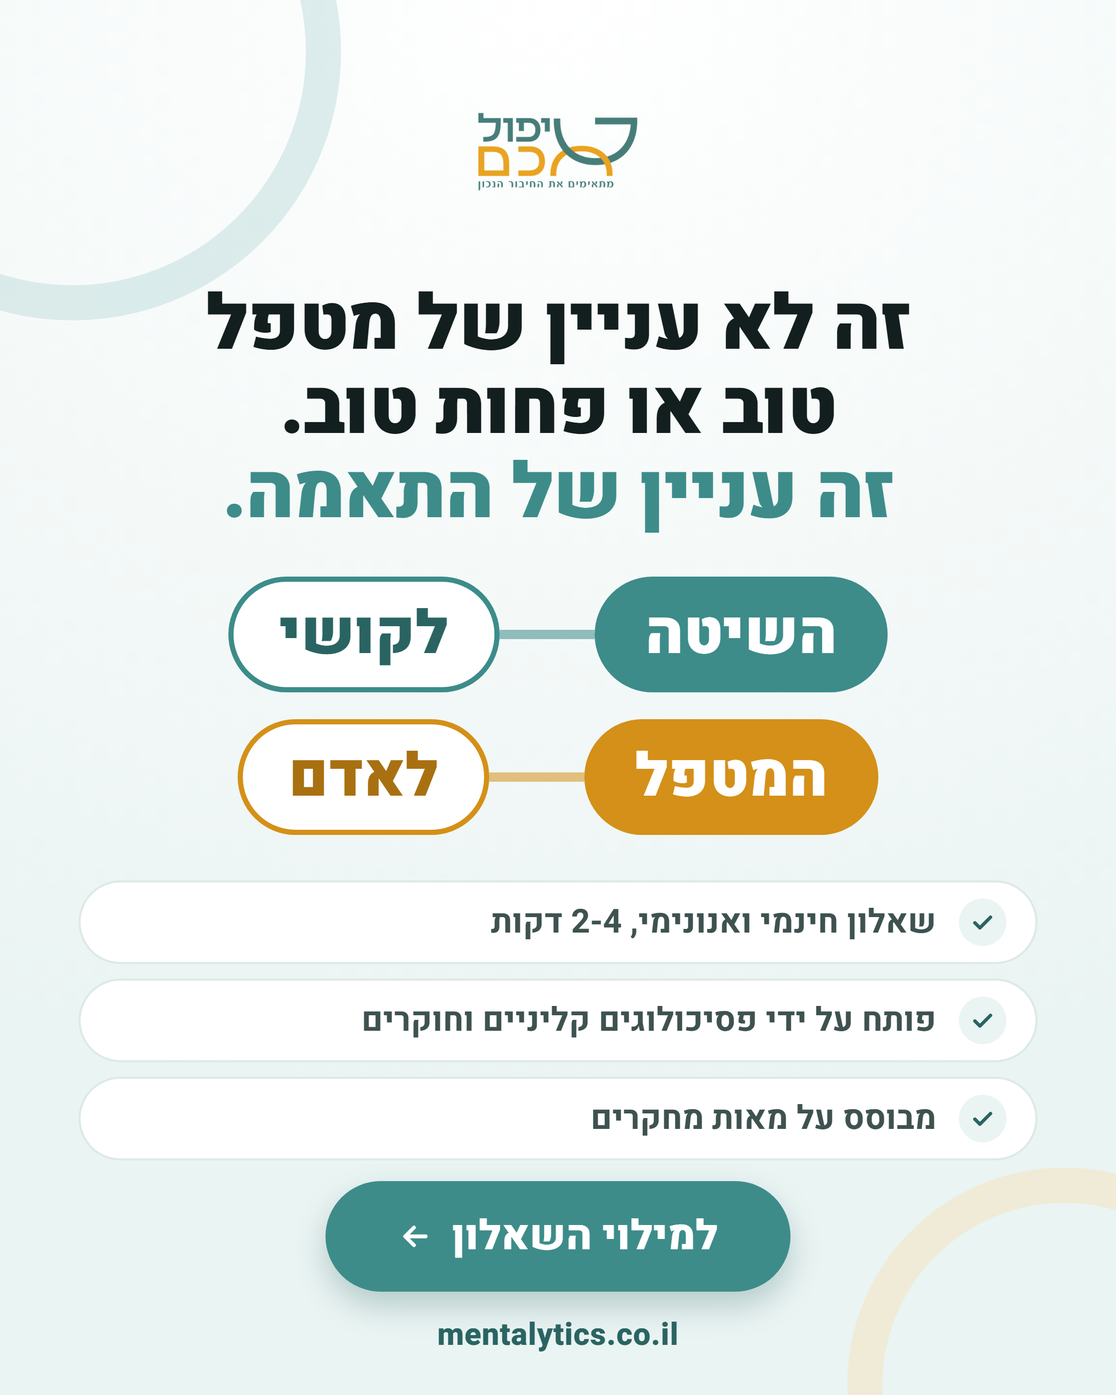
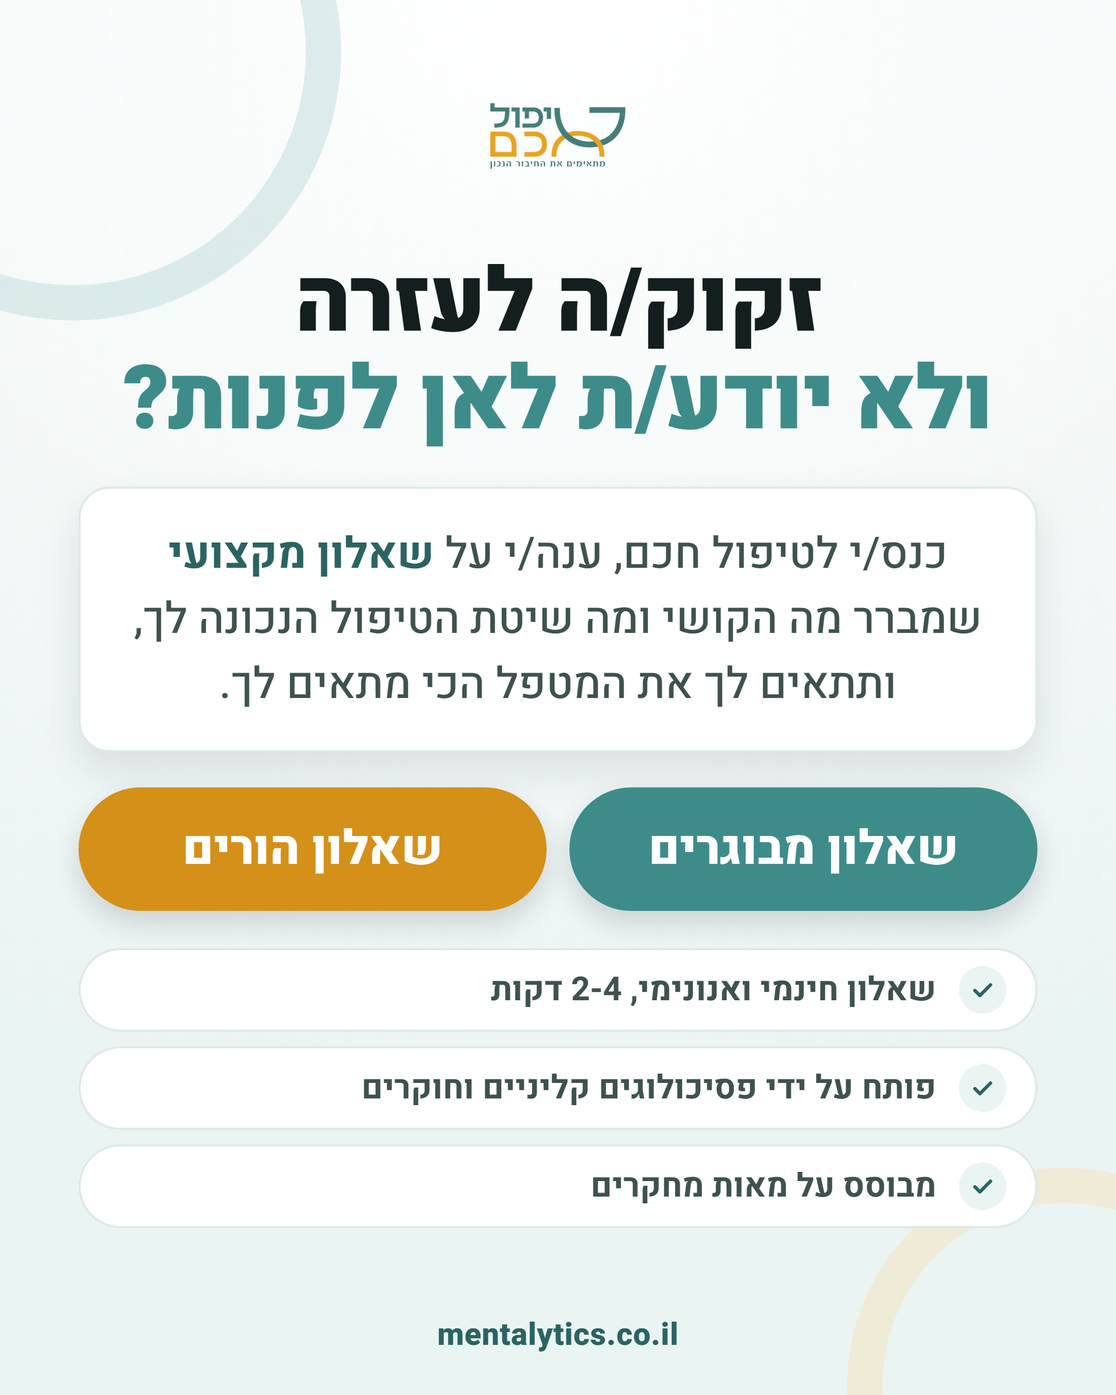
docs(ads): the owner's corrections to the October Facebook ads
He reviewed the four ads on 7/10/2026 and asked for changes to the two images
and the two videos. The post texts, links and tracking are untouched.

- Therapists' image: the audience line ("פסיכולוגית/עו״ס/מטפלת?") is now the
  biggest line, at the top, instead of a small chip.
- Patients' image: his headline and sentence, and the two questionnaires
  (adults, parents) as buttons. The image of 6/10/2026 stays as
  fb-patients-image-alt: his headline speaks to the reader, which Meta's
  Personal Attributes rule may reject, and the earlier image never does.
- The doc records the new video scripts (the audience line opening the
  therapists' video, who built the questionnaire, the therapeutic personality
  with its footnote, plans before "developed by"; his opening question for the
  patients' video) and what to swap if a patients' ad is rejected.
- gen.py: the corner rings sit under the text, so a headline that reaches a
  corner is no longer washed out by one.

Changed region(s): [[0.062, 0.1867, 0.9306, 0.9644], [0.4032, 0.0622, 0.5894, 0.1556]]

diff --git a/docs/ads-images/meta-2026-10/gen.py b/docs/ads-images/meta-2026-10/gen.py
@@ -2,14 +2,18 @@
 """Meta feed images for the October 2026 ads: one for therapist recruitment, one for patients.
 
 Each is the still half of a pair whose other half is a video (the recruitment video, and the
-adults' promo that the patients' image is built from). The wording is the owner's, approved on
-6/10/2026; the refund line is his sentence, word for word.
+adults' promo). The wording is the owner's: approved on 6/10/2026 and corrected on 7/10/2026,
+when he asked for the audience line big at the top of the therapists' image and gave the
+patients' image its headline and sentence. The refund line is his sentence, word for word.
 Rendered at 1080x1350 (4:5, the feed format) with a 2x device scale.
 
 Rules carried over from the September set (meta-2026-09/gen.py):
 - Big headline, little text: the July carousels were too wordy to stop a scroll.
-- Nothing in the patients' image may assert or imply the viewer's mental-health condition
-  (Meta "Personal Attributes"): it speaks about choosing a therapist, never about the reader.
+- Meta's "Personal Attributes" rule rejects an ad that asserts or implies the viewer's
+  mental-health condition. The owner's headline for the patients' image speaks to the viewer
+  ("need help and don't know where to turn?"): he asked for it on 7/10/2026, and the risk was
+  put to him when the files were handed over. The image of 6/10/2026, which speaks about
+  choosing a therapist and never about the reader, is kept as the fallback (fb-patients-image-alt).
 - No em dash anywhere (house rule), and the logo is the real file, never redrawn.
 """
 import io, os, subprocess
@@ -30,10 +34,12 @@ HEAD = """<!doctype html><html dir="rtl" lang="he"><head><meta charset="utf-8">
 html,body{width:1080px;height:1350px;overflow:hidden;font-family:Heebo,sans-serif;color:var(--text)}
 body{background:radial-gradient(120% 80% at 50% 0%,#ffffff 0%,#F4F9F8 55%,var(--teal-pale) 100%);
  display:flex;flex-direction:column;align-items:center;padding:46px 76px 36px;position:relative}
-.ring{position:absolute;border-radius:50%;border:34px solid;opacity:.55;pointer-events:none}
-.logo{width:200px;height:auto;margin-bottom:22px}
-.chip{display:inline-block;background:var(--gold-pale);color:var(--gold-dark);border:2px solid #F0DDB0;
- font-weight:800;font-size:31px;border-radius:50px;padding:10px 32px;margin-bottom:22px}
+.ring{position:absolute;border-radius:50%;border:34px solid;opacity:.55;pointer-events:none;z-index:0}
+/* the rings are decoration: a headline that reaches a corner must sit over them, not under */
+body > :not(.ring){position:relative;z-index:1}
+.logo{width:170px;height:auto;margin-bottom:16px}
+/* who the ad speaks to: the first line under the logo, and the biggest */
+.who{font-weight:900;font-size:80px;line-height:1.1;color:var(--gold-dark);text-align:center;letter-spacing:-1px;margin-bottom:12px;white-space:nowrap}
 h1{font-weight:900;line-height:1.1;text-align:center;letter-spacing:-1px}
 h1 em{font-style:normal;color:var(--teal)}
 .btn{margin-top:auto;background:var(--teal);color:#fff;font-weight:800;font-size:40px;border-radius:60px;
@@ -85,14 +91,14 @@ def recruit():
                  '<div style="font-size:39px;font-weight:' + ("900" if last else "800") + ';color:' +
                  ("var(--text)" if last else "var(--text-2)") + '">' + t + '</div></div>')
     return head() + """
-<div class="chip">פסיכולוג/ית · עו״ס · מטפל/ת</div>
-<h1 style="font-size:78px">פניות שמתאימות<br><em>לשיטת הטיפול שלך.</em></h1>
-<div class="card" style="width:100%;margin-top:26px;padding:6px 0">""" + rows + """</div>
+<div class="who">פסיכולוגית/עו״ס/מטפלת?</div>
+<h1 style="font-size:74px">פניות שמתאימות<br><em>לשיטת הטיפול שלך.</em></h1>
+<div class="card" style="width:100%;margin-top:28px;padding:8px 0">""" + rows + """</div>
 <div style="width:100%;margin-top:6px">""" + checks([
         "שאלון שפיתחו פסיכולוגים וחוקרים",
         "מסלול חינמי, ומסלול מקודם",
     ]) + """</div>
-<div style="font-size:30px;font-weight:700;color:var(--teal-dark);text-align:center;margin:18px 0 26px">""" + REFUND + """</div>
+<div style="font-size:31px;font-weight:700;color:var(--teal-dark);text-align:center;margin:22px 0 26px">""" + REFUND + """</div>
 """ + foot("לפרטים והצטרפות")
 
 
@@ -104,8 +110,38 @@ def pair(a, b, fill, ink):
             '<div style="' + pill + ';background:#fff;color:' + ink + ';border:5px solid ' + fill + '">' + b + '</div></div>')
 
 
+def quiz_button(label, fill):
+    return ('<div style="flex:1;text-align:center;background:' + fill + ';color:#fff;font-weight:800;font-size:46px;'
+            'border-radius:60px;padding:26px 10px;box-shadow:0 12px 26px rgba(19,31,30,.16);white-space:nowrap">' + label + '</div>')
+
+
 def patients():
-    """Patients: the sentence and the two pairs of the adults' promo video, and what the questionnaire is."""
+    """Patients, the owner's version (7/10/2026): his question, his sentence, and the two questionnaires.
+
+    His words, as he wrote them. Two touches only: "כנס" and "ענה" take the "/י" that his headline's
+    "זקוק/ה" and "יודע/ת" already have, and the stray space before the comma is gone.
+    """
+    return head() + """
+<h1 style="font-size:86px;margin-top:14px">זקוק/ה לעזרה<br><em>ולא יודע/ת לאן לפנות?</em></h1>
+<div class="card" style="width:100%;margin-top:36px;padding:32px 34px">
+ <div style="font-size:42px;line-height:1.5;color:var(--text-2);font-weight:500;text-align:center">
+  כנס/י לטיפול חכם, ענה/י על <b style="color:var(--teal-dark)">שאלון מקצועי</b> שמברר מה הקושי ומה שיטת הטיפול הנכונה לך, ותתאים לך את המטפל הכי מתאים לך.</div>
+</div>
+<div style="display:flex;gap:22px;width:100%;margin-top:34px">""" + \
+        quiz_button("שאלון מבוגרים", "var(--teal)") + quiz_button("שאלון הורים", "var(--gold)") + """</div>
+<div style="width:100%;margin-top:22px">""" + checks([
+        "שאלון חינמי ואנונימי, 2-4 דקות",
+        "פותח על ידי פסיכולוגים קליניים וחוקרים",
+        "מבוסס על מאות מחקרים",
+    ]) + """</div>
+<div class="url" style="margin-top:auto">mentalytics.co.il</div></body></html>"""
+
+
+def patients_alt():
+    """Patients, the fallback (6/10/2026): the sentence and the two pairs of the adults' promo video.
+
+    It never addresses the reader, so it is the one to switch to if Meta rejects the owner's version.
+    """
     return head() + """
 <h1 style="font-size:74px;margin-top:6px">זה לא עניין של מטפל<br>טוב או פחות טוב.<br><em>זה עניין של התאמה.</em></h1>
 <div style="display:flex;flex-direction:column;gap:26px;margin-top:40px">""" + \
@@ -119,7 +155,7 @@ def patients():
 """ + foot("למילוי השאלון")
 
 
-FILES = {"fb-recruit-image": recruit, "fb-patients-image": patients}
+FILES = {"fb-recruit-image": recruit, "fb-patients-image": patients, "fb-patients-image-alt": patients_alt}
 
 if __name__ == "__main__":
     for name, build in FILES.items():

diff --git a/docs/ads-copy/meta-2026-10.md b/docs/ads-copy/meta-2026-10.md
@@ -1,8 +1,8 @@
 # פייסבוק ואינסטגרם - ארבע מודעות, אוקטובר 2026
 
 שני קמפיינים, בכל אחד מודעת תמונה ומודעת סרטון: גיוס מטפלים, ומטופלים.
-הנוסחים והתסריט אושרו על ידי הבעלים ב-6/10/2026. מסמך העתק-הדבק: כל מה שצריך כדי
-להקים את המודעות ידנית מהטלפון, בלי שום כלי אוטומטי.
+הנוסחים והתסריט אושרו על ידי הבעלים ב-6/10/2026, והתמונות והסרטונים תוקנו לפי הערותיו
+ב-7/10/2026. מסמך העתק-הדבק: כל מה שצריך כדי להקים את המודעות ידנית מהטלפון, בלי שום כלי אוטומטי.
 
 - התמונות: `docs/ads-images/meta-2026-10/` (4:5, 2160x2700, המחולל `gen.py` באותה תיקייה).
 - הסרטונים, התמונות והקובץ להעתקה מהטלפון: בדרופבוקס, `Mentalitics\שיווק\פייסבוק אוקטובר 2026`.
@@ -54,7 +54,10 @@
 | קובץ | `fb-recruit-image.png` (בדרופבוקס: `1 מטפלים - מודעת תמונה.png`) |
 | כתובת | `https://www.mentalytics.co.il/therapists/join?utm_source=facebook&utm_medium=paid&utm_campaign=fb-recruit-image` |
 
-### מודעה 2: סרטון (34.5 שניות, בלי קריינות)
+בראש התמונה, בשורה הגדולה ביותר: "פסיכולוגית/עו״ס/מטפלת?" (הנוסח של הבעלים, 7/10/2026).
+מתחתיה "פניות שמתאימות לשיטת הטיפול שלך.", שלושת השלבים, מי פיתח, שני המסלולים ומשפט ההחזר.
+
+### מודעה 2: סרטון (39.5 שניות, בלי קריינות)
 
 | שדה | ערך |
 |---|---|
@@ -63,19 +66,23 @@
 
 מה שעל המסך, לפי הסדר:
 
-1. "כמה שיחות ראשונות נגמרות ב״זה לא מתאים״?" עם התגית "פסיכולוג/ית · עו״ס · מטפל/ת", ופנייה
-   שנכנסת: "שלום, מחפש טיפול CBT. אפשר לקבוע?". אחריה מחשבה של המטפלת: "אבל אני עובדת בגישה דינמית".
-2. "אצלנו הפונים ממלאים קודם שאלון." (הטלפון: פתיחת השאלון)
-3. "השאלון ממליץ על שיטת טיפול." (הטלפון: הדוח)
+1. בגדול למעלה: "פסיכולוגית/עו״ס/מטפלת?", ומתחת השאלה "כמה שיחות ראשונות נגמרות ב״זה לא
+   מתאים״?". פנייה שנכנסת: "שלום, מחפש טיפול CBT. אפשר לקבוע?", ואחריה מחשבה של המטפלת:
+   "אבל אני עובדת בגישה דינמית".
+2. "אצלנו המטופלים ממלאים קודם שאלון שנבנה ע״י פסיכולוגים וחוקרים." (הטלפון: פתיחת השאלון)
+3. "השאלון ממליץ על שיטת הטיפול הנכונה" (הטלפון: הדוח), ואז "ועל האישיות הטיפולית שהוא מחפש*"
+   (הטלפון: שלוש השאלות על סגנון הטיפול המועדף). מתחת, הערת הכוכבית: "רוצה לדעת מה זה אומר
+   התאמה אישיותית? כנס/י לאתר".
 4. "ומציג מטפלים שעובדים בשיטה הזו." (הטלפון: רשימת המטפלים, מסומנת "דמו להמחשה")
 5. "פחות פניות סרק. יותר פניות שמתאימות לך."
-6. "פותח על ידי פסיכולוגים קליניים וחוקרים. מבוסס על מאות מחקרים."
-7. שני המסלולים: "מסלול חינמי: פרופיל במאגר המטפלים", "מסלול מקודם: הופעה במערכת ההתאמה",
+6. שני המסלולים: "מסלול חינמי: פרופיל במאגר המטפלים", "מסלול מקודם: הופעה במערכת ההתאמה",
    ומתחתיו "אם אין פניות מתאימות בתוך 60 יום מקבלים החזר מלא".
+7. "פותח על ידי פסיכולוגים קליניים וחוקרים. מבוסס על מאות מחקרים."
 8. הלוגו, "הצטרפות למאגר המטפלים", mentalytics.co.il.
 
-בטבלה שהבעלים אישר, הפנייה והמחשבה באו לפני השאלה. בסרטון הן חולקות את הפתיחה, כדי שהפריים
-הראשון (התמונה שהפיד מציג לפני שהסרטון מתנגן) יגיד למי המודעה מיועדת.
+התיקונים של הבעלים מ-7/10/2026: שורת הקהל בגדול בראש הפתיחה; "המטופלים" במקום "הפונים" ותוספת
+"שנבנה ע״י פסיכולוגים וחוקרים"; "הנכונה" והאישיות הטיפולית עם הערת הכוכבית; והמסלולים לפני
+"פותח על ידי". השאלה שבפתיחה נשארה בנוסח שאושר ב-6/10 ("שיחות ראשונות").
 
 ---
 
@@ -113,19 +120,39 @@
 | קובץ | `fb-patients-image.png` (בדרופבוקס: `3 מטופלים - מודעת תמונה.png`) |
 | כתובת | `https://www.mentalytics.co.il/lp/story-c?utm_source=facebook&utm_medium=paid&utm_campaign=fb-patients-image` |
 
-### מודעה 4: סרטון (סרטון המבוגרים הקיים, 42.8 שניות)
+הנוסח של הבעלים (7/10/2026). כותרת גדולה: "זקוק/ה לעזרה ולא יודע/ת לאן לפנות?". מתחתיה:
+"כנס/י לטיפול חכם, ענה/י על שאלון מקצועי שמברר מה הקושי ומה שיטת הטיפול הנכונה לך, ותתאים לך
+את המטפל הכי מתאים לך." שני כפתורים, "שאלון מבוגרים" ו"שאלון הורים", ושלוש שורות: חינמי
+ואנונימי, מי פיתח, ומבוסס על מאות מחקרים. שני שינויים בלבד במילים שלו: ל"כנס" ול"ענה" נוסף
+"/י", כמו ב"זקוק/ה" שבכותרת.
+
+### מודעה 4: סרטון (סרטון המבוגרים, 42.8 שניות)
 
 | שדה | ערך |
 |---|---|
 | קובץ | `4 מטופלים - מודעת סרטון.mp4` (אנכי 9:16, ראו "איזה קובץ מעלים") |
 | כתובת | `https://www.mentalytics.co.il/lp/story-c?utm_source=facebook&utm_medium=paid&utm_campaign=fb-patients-video` |
 
-התוכן זהה לטיוטה 5 של סרטון המבוגרים (3/10/2026). השתנתה רק הפריסה, כדי שיתאים למודעה.
+טיוטה 5 של סרטון המבוגרים (3/10/2026) בפריסה של מודעה, עם פתיחה חדשה לפי הבעלים (7/10/2026):
+הכותרת "זקוק/ה לעזרה ולא יודע/ת לאן לפנות?", והרשימה כשאלות: "לשאול חבר?", "לחפש פסיכולוג לפי
+תמונה בגוגל?", "קופת חולים?". השורה "לחכות עוד קצת" ירדה מהחיתוך הזה. שאר הסרטון לא השתנה,
+והקבצים שבתיקיית "סרטון למטופלים" נשארו כפי שהיו.
 
-**אם Meta דוחה את המודעה בגלל השורה הראשונה:** מדיניות Personal Attributes פוסלת מודעה
-שמרמזת על מצבו הנפשי של הקורא. "לאן פונים כשצריך טיפול?" לא פונה אל הקורא, ולכן סביר שיעבור.
-אם לא, מחליפים בטקסט רק את השורה הראשונה ב"איך בוחרים מטפל?". בסרטון השורה הזו נמצאת על
-המסך הראשון: אם הסרטון נדחה בגללה, מודעת התמונה ממשיכה לבד עד שמתקנים אותו.
+### חלופה למודעות המטופלים, אם Meta דוחה
+
+מדיניות Personal Attributes של Meta פוסלת מודעה שפונה אל הקורא ומרמזת על מצבו הנפשי. הכותרת
+"זקוק/ה לעזרה ולא יודע/ת לאן לפנות?" פונה אל הקורא, ולכן יש סיכון שהמודעות יידחו. הבעלים ביקש
+את הנוסח הזה ב-7/10/2026, והסיכון הוצג לו עם מסירת הקבצים. כל דחייה נרשמת בחשבון, ולחשבון הזה
+יש היסטוריית אכיפה.
+
+בתיקייה "חלופה למטופלים (גוף שלישי)" נמצאות הגרסאות מ-6/10/2026, שלא פונות אל הקורא:
+
+| | |
+|---|---|
+| תמונה | `fb-patients-image-alt.png`: "זה לא עניין של מטפל טוב או פחות טוב. זה עניין של התאמה." |
+| סרטון | הפתיחה "לאן פונים כשצריך טיפול?", והרשימה בלי סימני שאלה |
+
+אם מודעה נדחית, מחליפים רק את הקובץ. הטקסט, הכותרת והקישור נשארים, כך שהמעקב ממשיך באותה שורה.
 
 ---
 
@@ -149,7 +176,7 @@
 
 המסכים של האפליקציה עצמה לא נבדקו (לא נכנסים לפייסבוק), ולכן ההנחיה כתובה כך שהיא נכונה בשני
 המקרים. מקור הקבצים: ערכת הסרטון (Remotion), קומפוזיציות `RecruitAd9x16`, `AdultsAd9x16`,
-`Recruit4x5`, `Adults4x5`; עותק של הקוד בדרופבוקס, בתיקייה "קבצי מקור".
+`Recruit4x5`, `AdultsAd4x5`; עותק של הקוד בדרופבוקס, בתיקייה "קבצי מקור".
 
 ---
 
@@ -205,8 +232,9 @@
 
 ## כללים שהנוסחים שומרים עליהם
 
-- **מדיניות Personal Attributes של Meta.** מודעת המטופלים מדברת על הבחירה במטפל, בגוף שלישי,
-  ולא על הקורא.
+- **מדיניות Personal Attributes של Meta.** הטקסט הראשי של מודעות המטופלים מדבר על הבחירה במטפל,
+  בגוף שלישי. הכותרת שעל התמונה ובפתיחת הסרטון פונה אל הקורא, בהחלטת הבעלים, ולכן יש לשתיהן
+  חלופה בגוף שלישי (ראו למעלה).
 - **"שתעודותיהם אומתו", לא "מורשים".** לחלק מהמקצועות במאגר אין רישיון ממלכתי.
 - **"פחות פניות סרק", לא "בלי".** אי אפשר להבטיח אפס.
 - **מה כל מסלול נותן.** לפי דף ההצטרפות, מערכת ההתאמה היא במסלול המקודם; המסלול החינמי הוא
